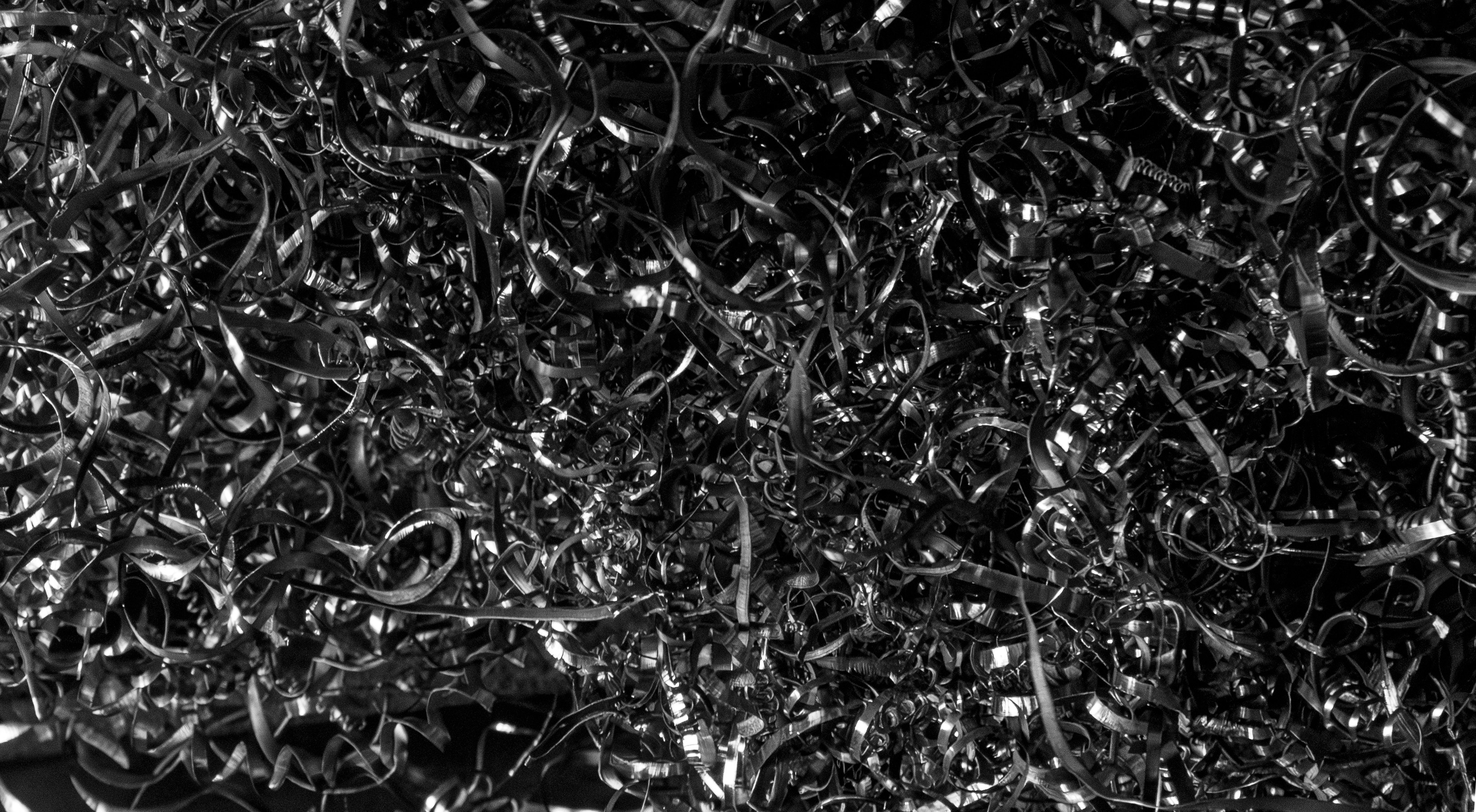
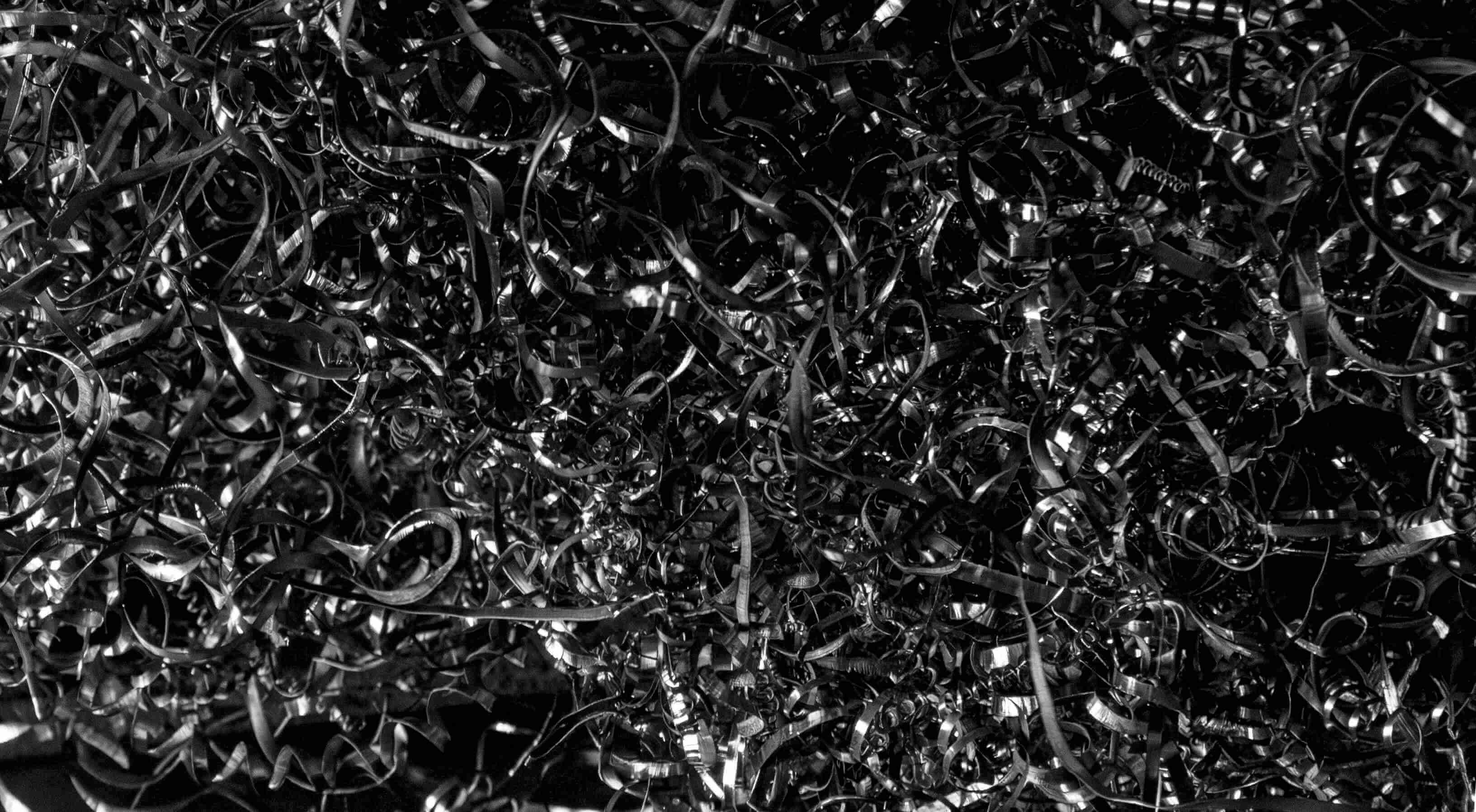
added photos

diff --git a/src/components/Herosection2.jsx b/src/components/Herosection2.jsx
@@ -51,10 +51,10 @@ const STATS = [
 
 // 4 slider images — update paths to match your /public folder
 const SLIDES = [
-  { src: "/hero10.jpg", alt: "Scrap metal yard Chennai" },
-  { src: "/hero21.jpg", alt: "Metal scrap collection Chennai" },
-  { src: "/hero23.jpg", alt: "Industrial scrap buyers Chennai" },
-  { src: "/hero24.jpg", alt: "Copper aluminium scrap Chennai" },
+  { src: "/hero3.jpeg", alt: "Scrap metal yard Chennai" },
+  { src: "/hero2.jpeg", alt: "Metal scrap collection Chennai" },
+  { src: "/hero1.jpeg", alt: "Industrial scrap buyers Chennai" },
+  { src: "/hero4.jpeg", alt: "Copper aluminium scrap Chennai" },
 ];
 export default function HeroSection() {
   const [mobileOpen, setMobileOpen] = useState(false);

diff --git a/src/components/about/OurValues.jsx b/src/components/about/OurValues.jsx
@@ -44,7 +44,7 @@ imgAlt: "Transparent scrap buying service in Chennai with honest pricing"  },
     ),
     title: "Speed as Respect",
     desc: "Your time matters. Same-day service, instant payment, and fast responses aren't perks — they're our baseline. We show up when we say we will.",
-    img: "/delivery3.jpg",
+    img: "/delivery4.jpg",
 imgAlt: "Fast scrap pickup and instant payment service Chennai"  },
   {
     tag: "LEGACY",

diff --git a/src/components/Footer.jsx b/src/components/Footer.jsx
@@ -72,7 +72,7 @@ export default function Footer() {
             {/* BRAND */}
             <div>
               <Image
-                src="/finalfooter.png"
+                src="/finallogo.png"
                 alt="Logo"
                 width={100}
                 height={60}

diff --git a/src/components/about/OurStory.jsx b/src/components/about/OurStory.jsx
@@ -4,7 +4,7 @@ import { useEffect, useRef, useState } from "react";
 import Image from "next/image";
 
 const STORY_IMAGE =
-  "/hero-scarp2.jpg";
+  "/hero-scarp3.jpg";
 
 const TIMELINE = [
   {
